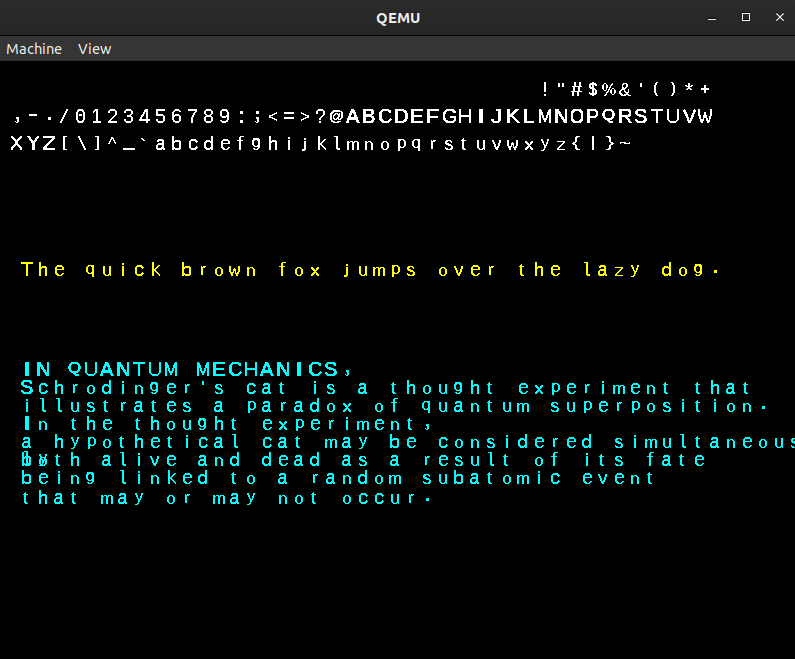
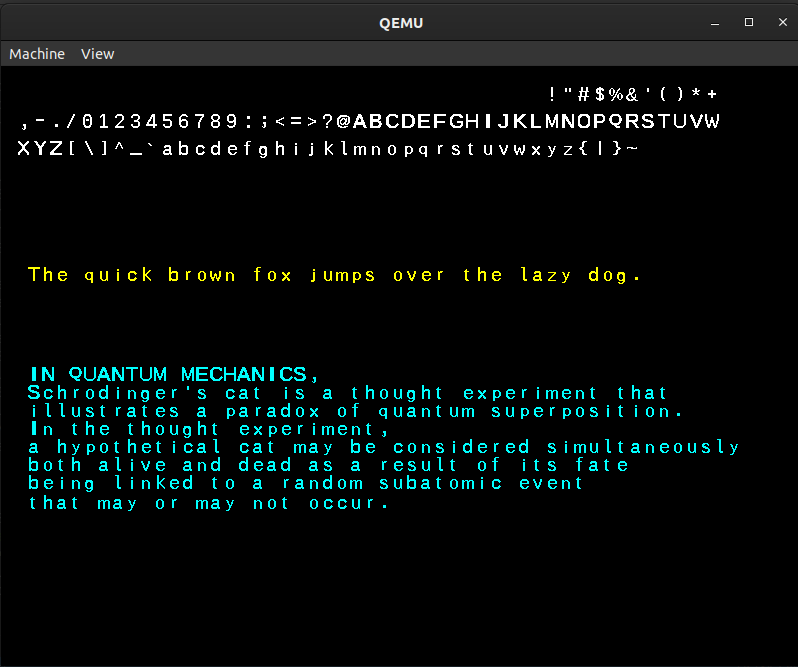
modififed bitmap text

diff --git a/NEW KERNEL/Bitmap Text/src/bitmap.c b/NEW KERNEL/Bitmap Text/src/bitmap.c
@@ -260,6 +260,8 @@ uint32 ASCII_BITMAPS[127][BITMAP_SIZE] = {
         0b0000000000000000,
         0b0000000000000000,
         0b0000000000000000,
+        0b0000000000000000,
+        0b0000000000000000,
         0b0000000111000000,
         0b0000000111000000,
         0b0000000011000000,
@@ -289,6 +291,8 @@ uint32 ASCII_BITMAPS[127][BITMAP_SIZE] = {
     },
     // 46 .
     {
+        0b0000000000000000,
+        0b0000000000000000,
         0b0000000000000000,
         0b0000000000000000,
         0b0000000000000000,
@@ -1260,6 +1264,7 @@ uint32 ASCII_BITMAPS[127][BITMAP_SIZE] = {
         0b0000000000000000,
         0b0000000000000000,
         0b0000000000000000,
+        0b0000000000000000,
         0b0000011111000000,
         0b0000111111100000,
         0b0000110001100000,
@@ -1268,7 +1273,6 @@ uint32 ASCII_BITMAPS[127][BITMAP_SIZE] = {
         0b0000111111100000,
         0b0001100001100000,
         0b0001100001100000,
-        0b0001100011100000,
         0b0001111111110000,
         0b0000111110110000,
         0b0000000000000000
@@ -1298,11 +1302,11 @@ uint32 ASCII_BITMAPS[127][BITMAP_SIZE] = {
         0b0000000000000000,
         0b0000000000000000,
         0b0000000000000000,
+        0b0000000000000000,
         0b0000001111100000,
         0b0000011111110000,
         0b0000110000111000,
         0b0000110000010000,
-        0b0000110000000000,
         0b0000110000000000,
         0b0000110000000000,
         0b0000110000010000,
@@ -1336,12 +1340,12 @@ uint32 ASCII_BITMAPS[127][BITMAP_SIZE] = {
         0b0000000000000000,
         0b0000000000000000,
         0b0000000000000000,
+        0b0000000000000000,
         0b0000001111100000,
         0b0000011111110000,
         0b0000110000011000,
         0b0000110000011000,
         0b0000111111111000,
-        0b0000110000000000,
         0b0000110000000000,
         0b0000110000000000,
         0b0000111000011000,
@@ -1373,6 +1377,9 @@ uint32 ASCII_BITMAPS[127][BITMAP_SIZE] = {
         0b0000000000000000,
         0b0000000000000000,
         0b0000000000000000,
+        0b0000000000000000,
+        0b0000000000000000,
+        0b0000000000000000,
         0b0000111111000000,
         0b0000111111100000,
         0b0001110011100000,
@@ -1384,8 +1391,7 @@ uint32 ASCII_BITMAPS[127][BITMAP_SIZE] = {
         0b0000011111100000,
         0b0000000001100000,
         0b0000110011000000,
-        0b0000011110000000,
-        0b0000000000000000
+        0b0000011110000000
     },
     // 104 h
     {
@@ -1410,10 +1416,10 @@ uint32 ASCII_BITMAPS[127][BITMAP_SIZE] = {
     {
         0b0000000000000000,
         0b0000000000000000,
+        0b0000000000000000,
         0b0000000110000000,
         0b0000000110000000,
         0b0000000000000000,
-        0b0000000110000000,
         0b0000000110000000,
         0b0000000110000000,
         0b0000000110000000,
@@ -1527,9 +1533,9 @@ uint32 ASCII_BITMAPS[127][BITMAP_SIZE] = {
         0b0000000000000000,
         0b0000000000000000,
         0b0000000000000000,
-        0b0000000000000000,
         0b0000001111000000,
         0b0000011001100000,
+        0b0000110000110000,
         0b0000110000110000,
         0b0000110000110000,
         0b0000110000110000,
@@ -1545,9 +1551,10 @@ uint32 ASCII_BITMAPS[127][BITMAP_SIZE] = {
         0b0000000000000000,
         0b0000000000000000,
         0b0000000000000000,
+        0b0000000000000000,
+        0b0000000000000000,
         0b0000011111100000,
         0b0000011100110000,
-        0b0000011000011000,
         0b0000011000011000,
         0b0000011000011000,
         0b0000011000011000,
@@ -1564,9 +1571,10 @@ uint32 ASCII_BITMAPS[127][BITMAP_SIZE] = {
         0b0000000000000000,
         0b0000000000000000,
         0b0000000000000000,
+        0b0000000000000000,
+        0b0000000000000000,
         0b0000011111100000,
         0b0000110011100000,
-        0b0001100001100000,
         0b0001100001100000,
         0b0001100001100000,
         0b0001100001100000,
@@ -1715,7 +1723,8 @@ uint32 ASCII_BITMAPS[127][BITMAP_SIZE] = {
         0b0000000000000000,
         0b0000000000000000,
         0b0000000000000000,
-        0b0000110000110000,
+        0b0000000000000000,
+        0b0000000000000000,
         0b0000110000110000,
         0b0000011000100000,
         0b0000011001100000,
@@ -1852,7 +1861,7 @@ void bitmap_draw_string(const char *str, int x, int y, int color) {
     while (*str) {
         bitmap_draw_char(*str, new_x, new_y, color);
         str++;
-        new_x += 16;
+        new_x += 14;
         if (new_x > (int)vbe_get_width()) {
             new_y += 17;
             new_x = x;

diff --git a/NEW KERNEL/Bitmap Text/include/bitmap.h b/NEW KERNEL/Bitmap Text/include/bitmap.h
@@ -3,7 +3,7 @@
 
 #include "types.h"
 
-#define BITMAP_SIZE 16
+#define BITMAP_SIZE 20
 
 void bitmap_draw_char(char ch, int x, int y, int color);
 
